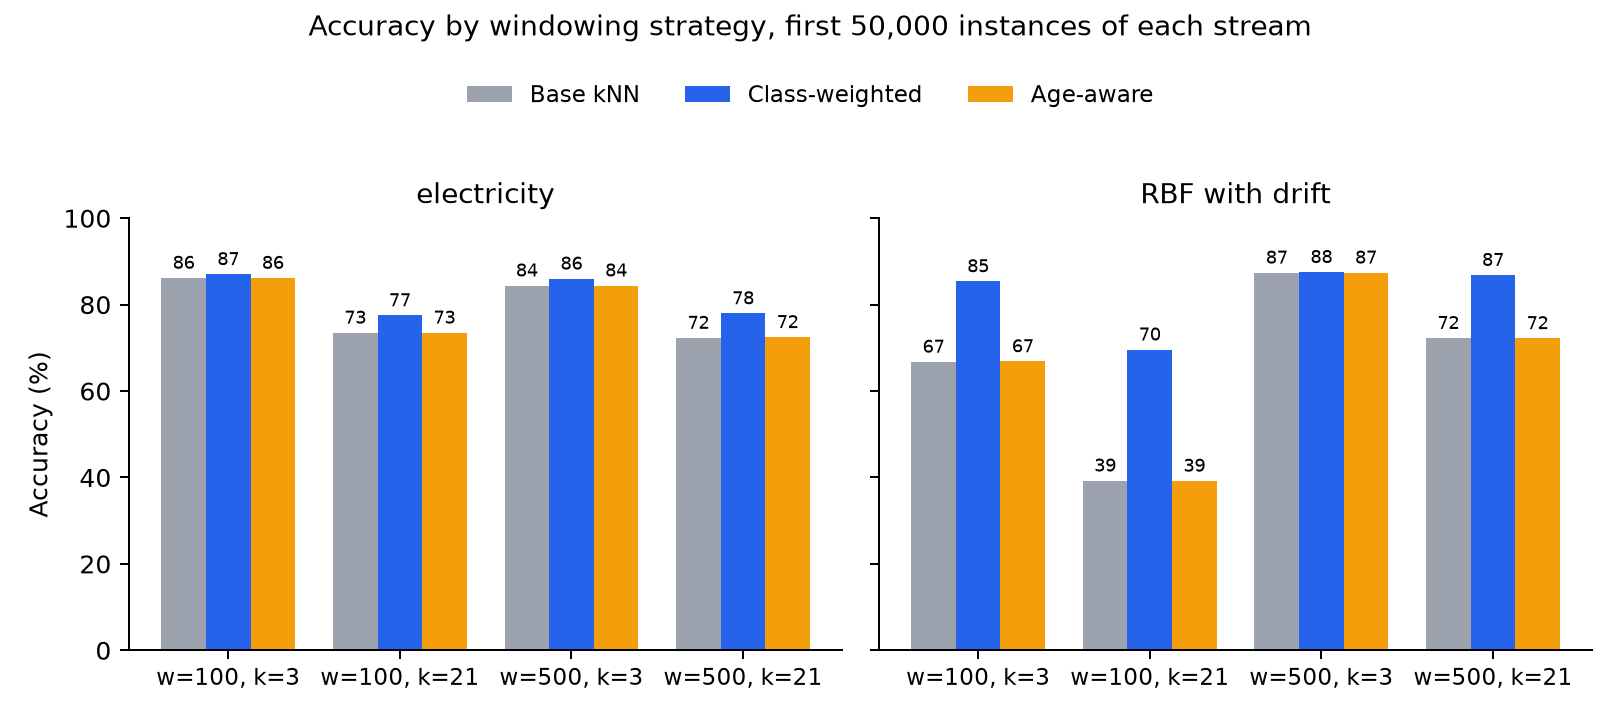
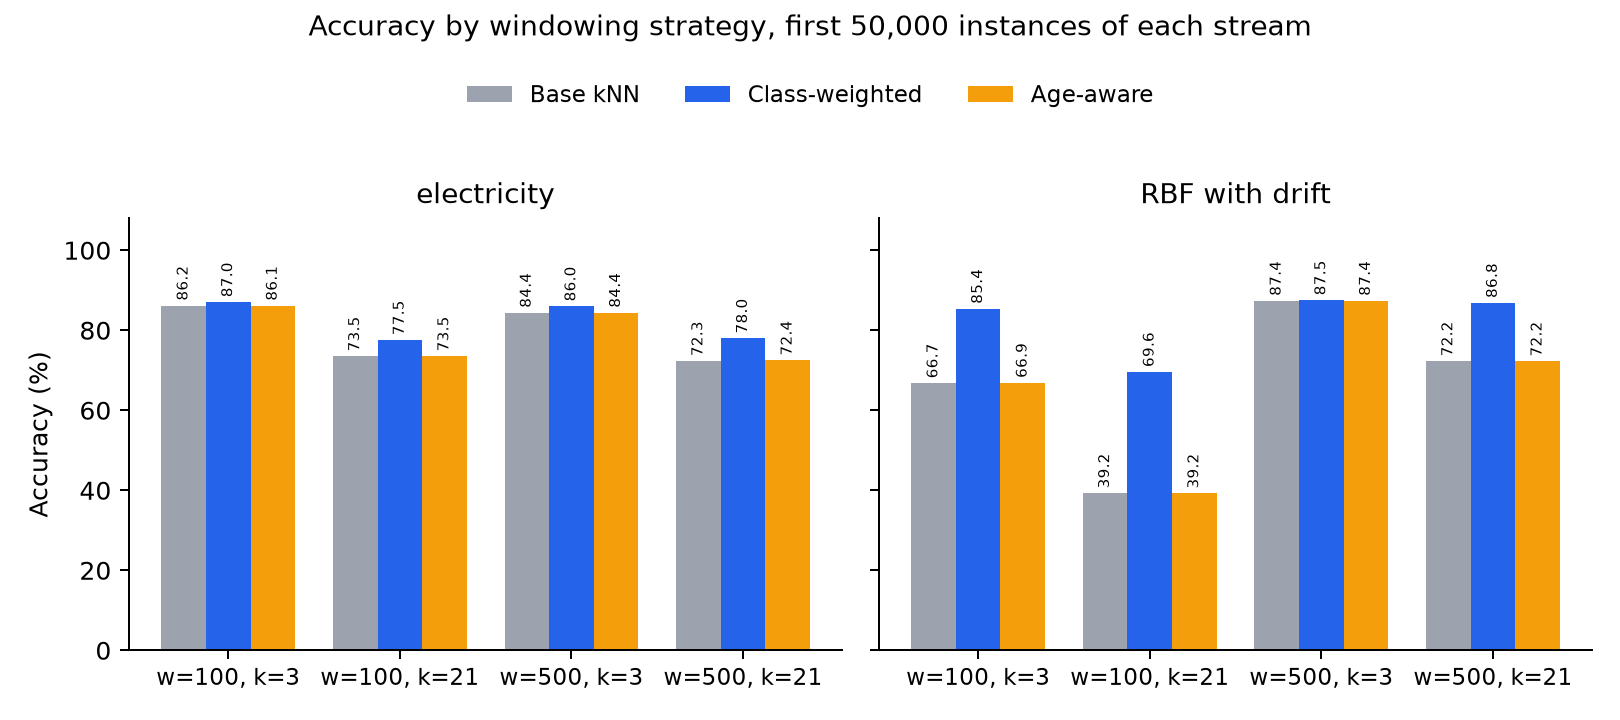
fix: label the chart with the precision the README uses

diff --git a/plot_results.py b/plot_results.py
@@ -26,10 +26,10 @@ for ax, (dataset, title) in zip(axes, DATASETS.items()):
         xs = [i + (j - 1) * width for i in range(len(SETTINGS))]
         ys = [accuracy[(dataset, variant, w, k)] for w, k in SETTINGS]
         bars = ax.bar(xs, ys, width, color=COLOURS[variant], label=VARIANTS[variant])
-        ax.bar_label(bars, fmt="%.0f", fontsize=7, padding=2)
+        ax.bar_label(bars, fmt="%.1f", fontsize=6, padding=2, rotation=90)
     ax.set_title(title, fontsize=11)
     ax.set_xticks(range(len(SETTINGS)), [f"w={w}, k={k}" for w, k in SETTINGS], fontsize=9)
-    ax.set_ylim(0, 100)
+    ax.set_ylim(0, 108)
     ax.spines[["top", "right"]].set_visible(False)
 axes[0].set_ylabel("Accuracy (%)")
 fig.legend(*axes[0].get_legend_handles_labels(), frameon=False, fontsize=9, loc="upper center", ncol=3, bbox_to_anchor=(0.5, 0.91))
